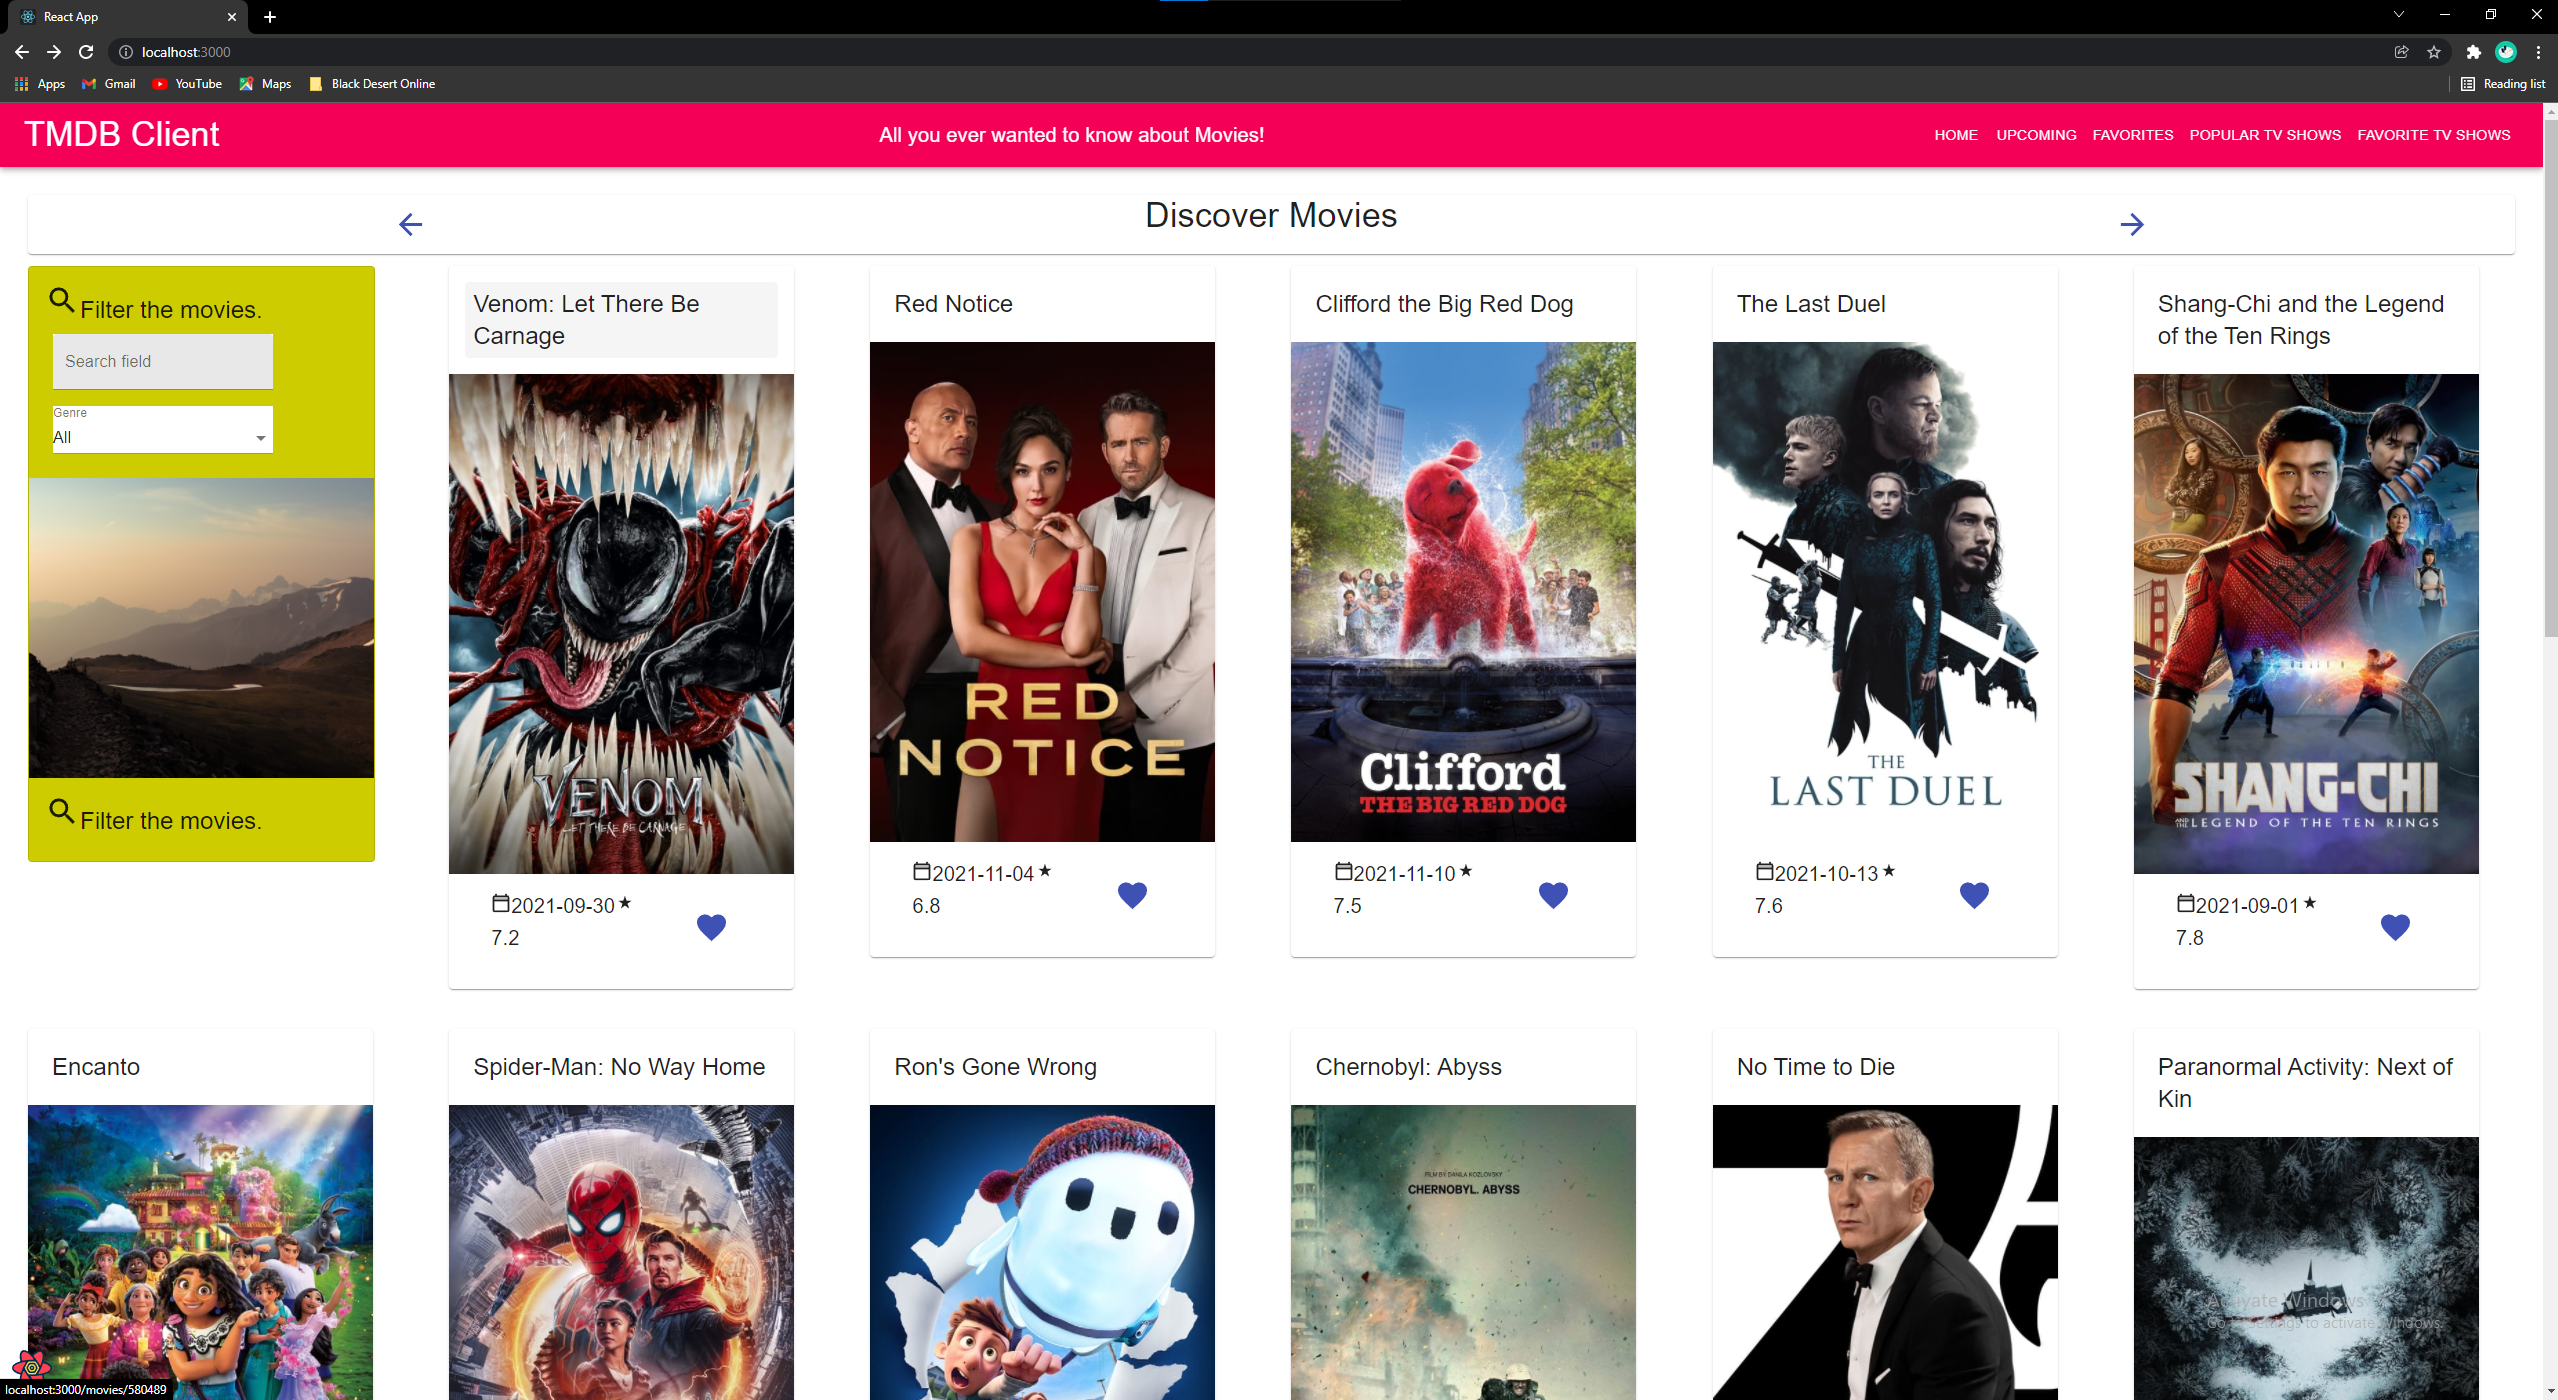
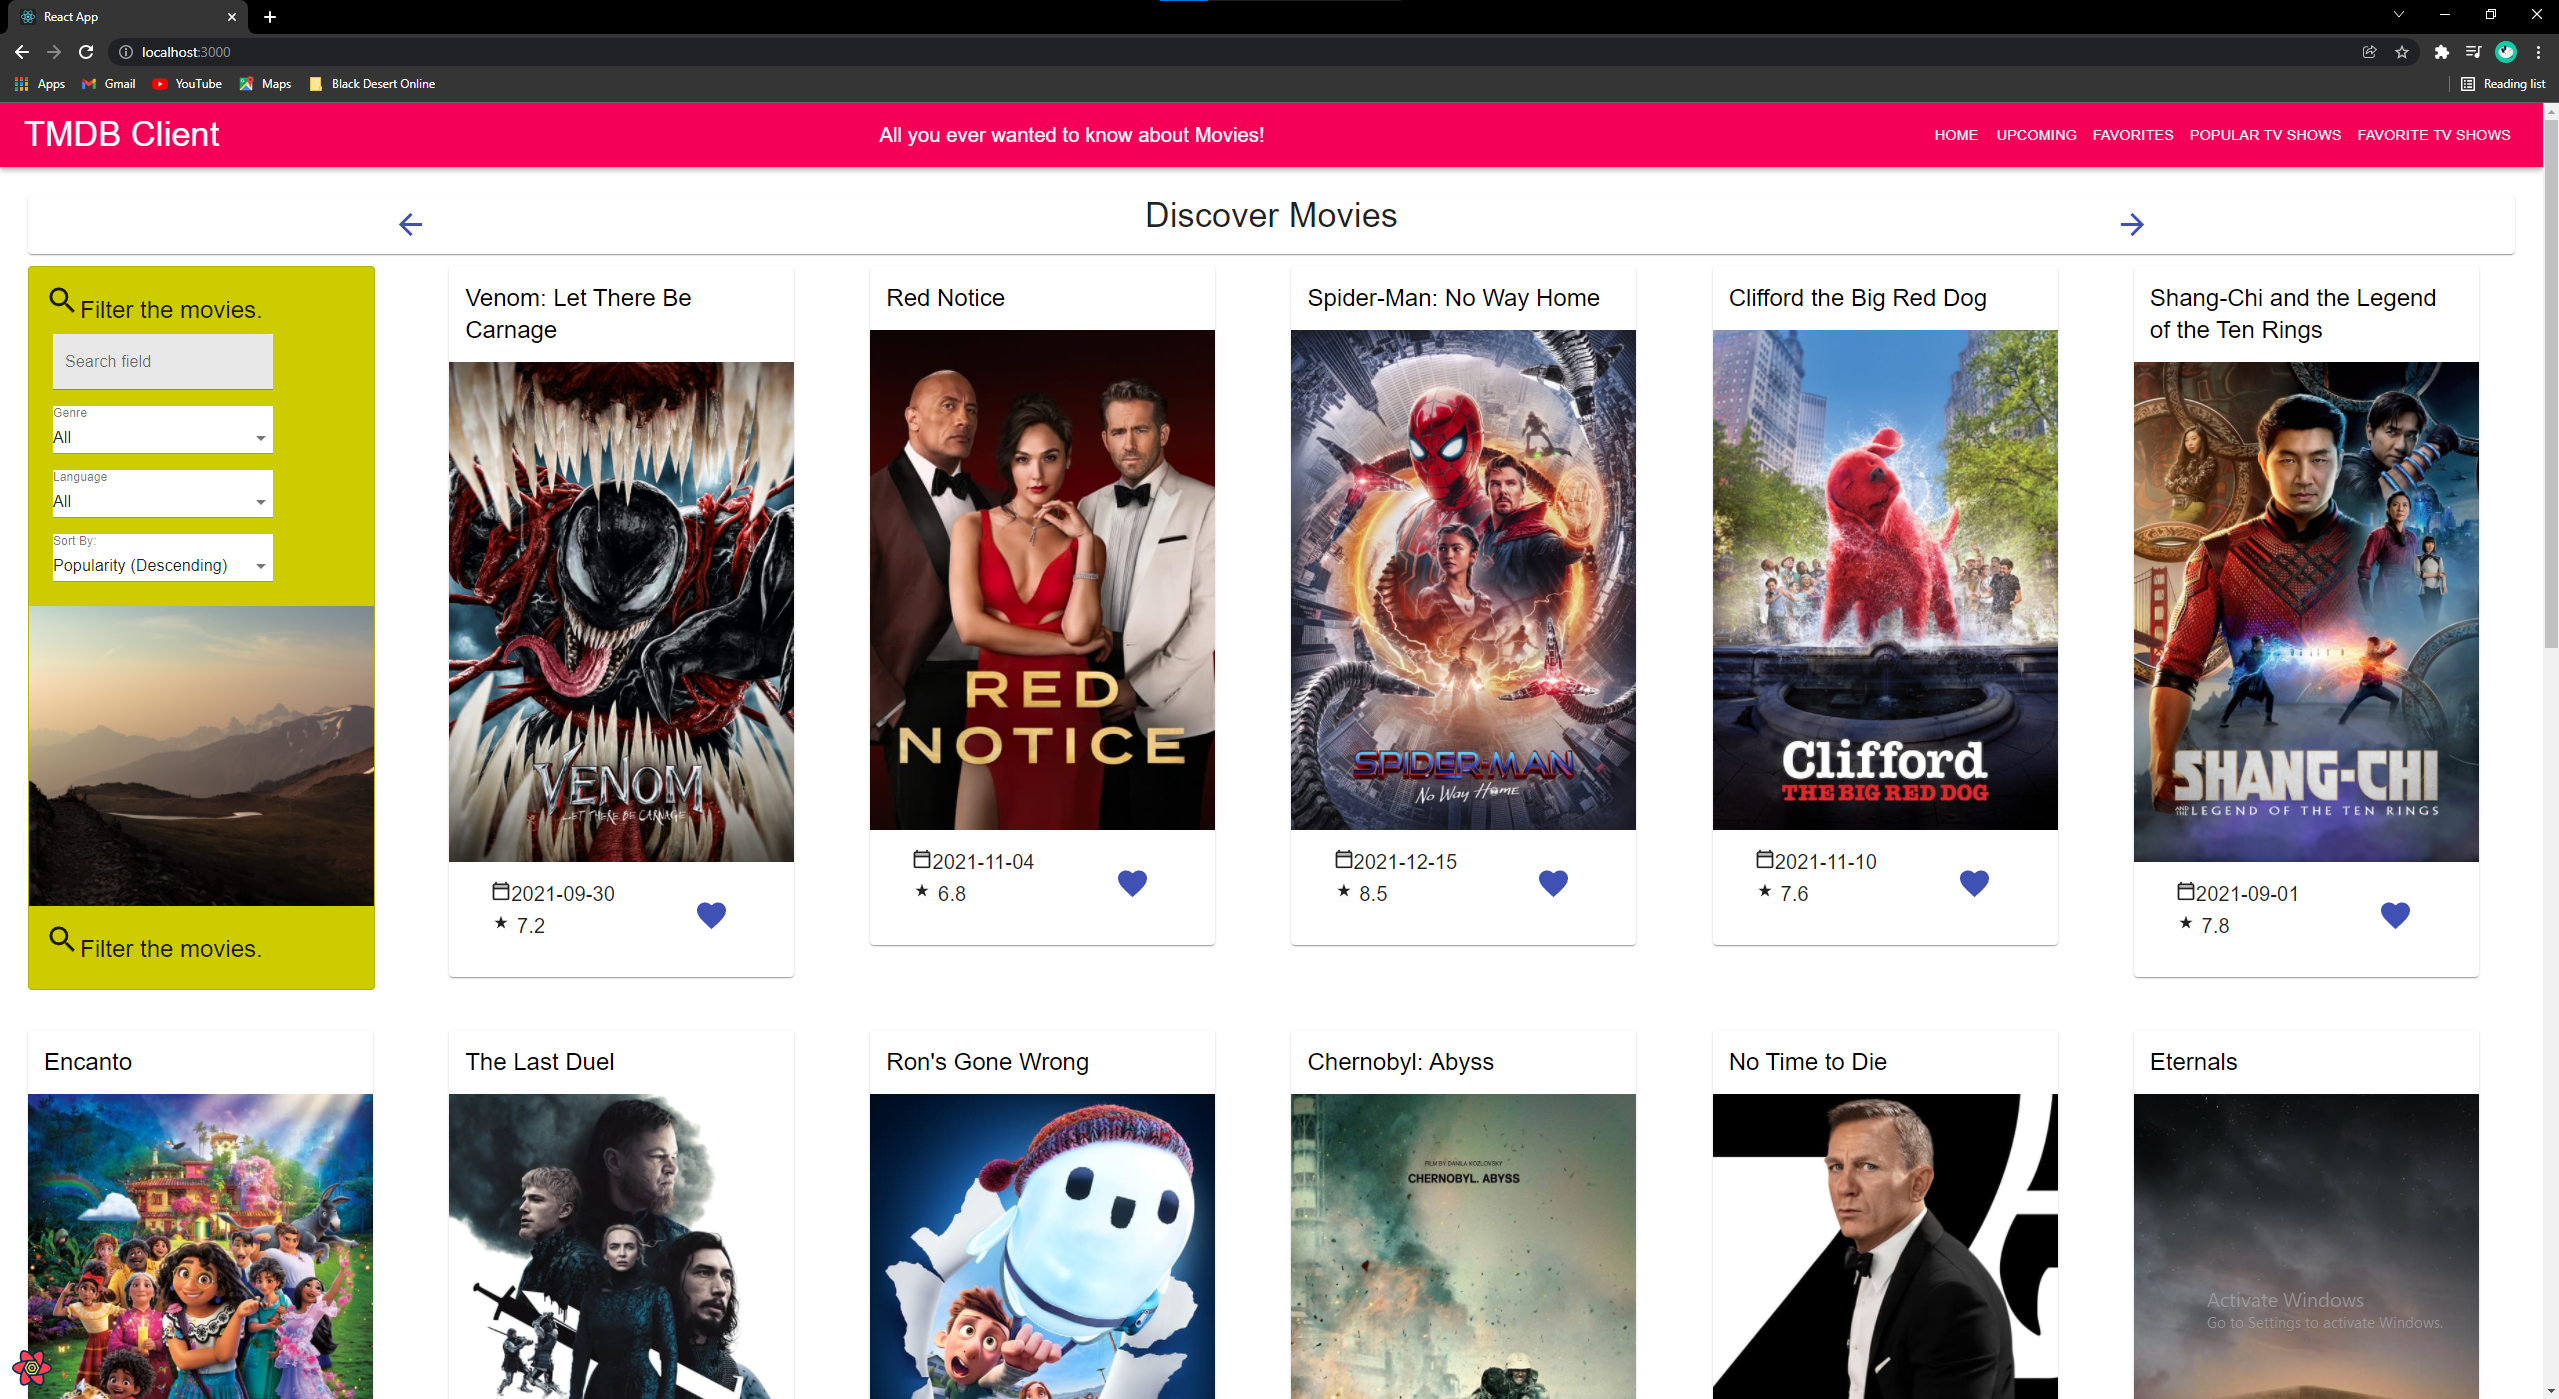
Updated ReadMe

diff --git a/src/components/showCard/index.js b/src/components/showCard/index.js
@@ -78,7 +78,9 @@ export default function ShowCard({ show, action }) {
           <Grid item xs={6}>
             <Typography variant="h6" component="p">
               <CalendarIcon fontSize="small" />
-              {show.first_air_date}{"\n"}
+              {show.first_air_date}{""}
+            </Typography>
+            <Typography variant="h6" component="p">
               <StarRateIcon fontSize="small" />
               {"  "}{show.vote_average}{" "}
             </Typography>

diff --git a/src/components/movieCard/index.js b/src/components/movieCard/index.js
@@ -79,6 +79,8 @@ export default function MovieCard({ movie, action }) {
               <Typography variant="h6" component="p">
                 <CalendarIcon fontSize="small" />
                 {movie.release_date}
+              </Typography>
+              <Typography variant="h6" component="p">
                 <StarRateIcon fontSize="small" />
                 {"  "} {movie.vote_average}{" "}
               </Typography>

diff --git a/README.md b/README.md
@@ -9,7 +9,7 @@ The movie app allows the user to do the following things:
 
 Discover Movies
 ================
-View the current popular movies and filter them by genre.
+View the current popular movies, filter the movies by name, genre & original language of the movie and sort the movies by ascending and descending orders of popularity, alphabetical & average rating. 
 
 View the details of each movie in the movie list by pressing the title, this takes the user to a new page.
 
@@ -37,7 +37,7 @@ The only feature difference being the substitute of the add to favorites ability
 Popular Tv Shows
 =================
 The Popular Tv Shows page shares all of its funtionality with the discover movies page, it allows the user to:
-    View the current popular tv shows and filter them by genre 
+    View the current popular tv shows and filter them by name, genre & country of origin. The user can also sort the shows by ascending and descending orders of popularity, alphabetical and average rating.
     View the details of each show 
         Access the homepage of each show
         view a list of reviews as well as a full review 
@@ -48,13 +48,15 @@ The Popular Tv Shows page shares all of its funtionality with the discover movie
 
 + Popular Tv Shows page (using new endpoint)
 + Show Details page (using 2 new endpoint (show details & show images))
-+ Filter the shows by show genres (using new endpoint)
++ Filter the shows by show genres (using new endpoint). Filter the shows by name and country of origin.
++ Sort the shows by popularity, alphabetical and average ratings. 
 + Show favorites page
 + Show reviews and full review page (using new endpoint)
 + Show review form page
 + Parameterized urls for each route
 + Change useQuery statements in existing files to specify movie relevant information ("images" => "movieImages") and added useQuery to relevant show pages
 + Changed the link for move/show details from a "ShowMore..." button to a hyperlinked title. 
++ Changed the movie filter card to allow extra filtering based on original language and sorting based on popularity, alphabetical & average ratings. 
 
 ## Setup requirements.
 
@@ -67,6 +69,8 @@ The Popular Tv Shows page shares all of its funtionality with the discover movie
 + Show images - tv/:id/images
 + Show reviews - tv/:id/reviews
 + Show genres - genre/tv/list
++ List of Languages - configuration/languages
++ List of Countries - configuration/countries 
 
 ## App Design.
 
@@ -84,7 +88,11 @@ The Popular Tv Shows page shares all of its funtionality with the discover movie
 
 ![ ](./src/images/filterShowsCard.png)
 
->Uses specific show genres to filter shows
+>Uses specific name, genres & country to filter shows. Allows for sorting based on popularity, alphabetical & average rating.
+
+![ ](./src/images/filterMoviesCard.png)
+
+>Uses specific name, genres & language to filter movies. Allows for sorting based on popularity, alphabetical & average rating.
 
 ![ ](./src/images/showDetails.png)
 
